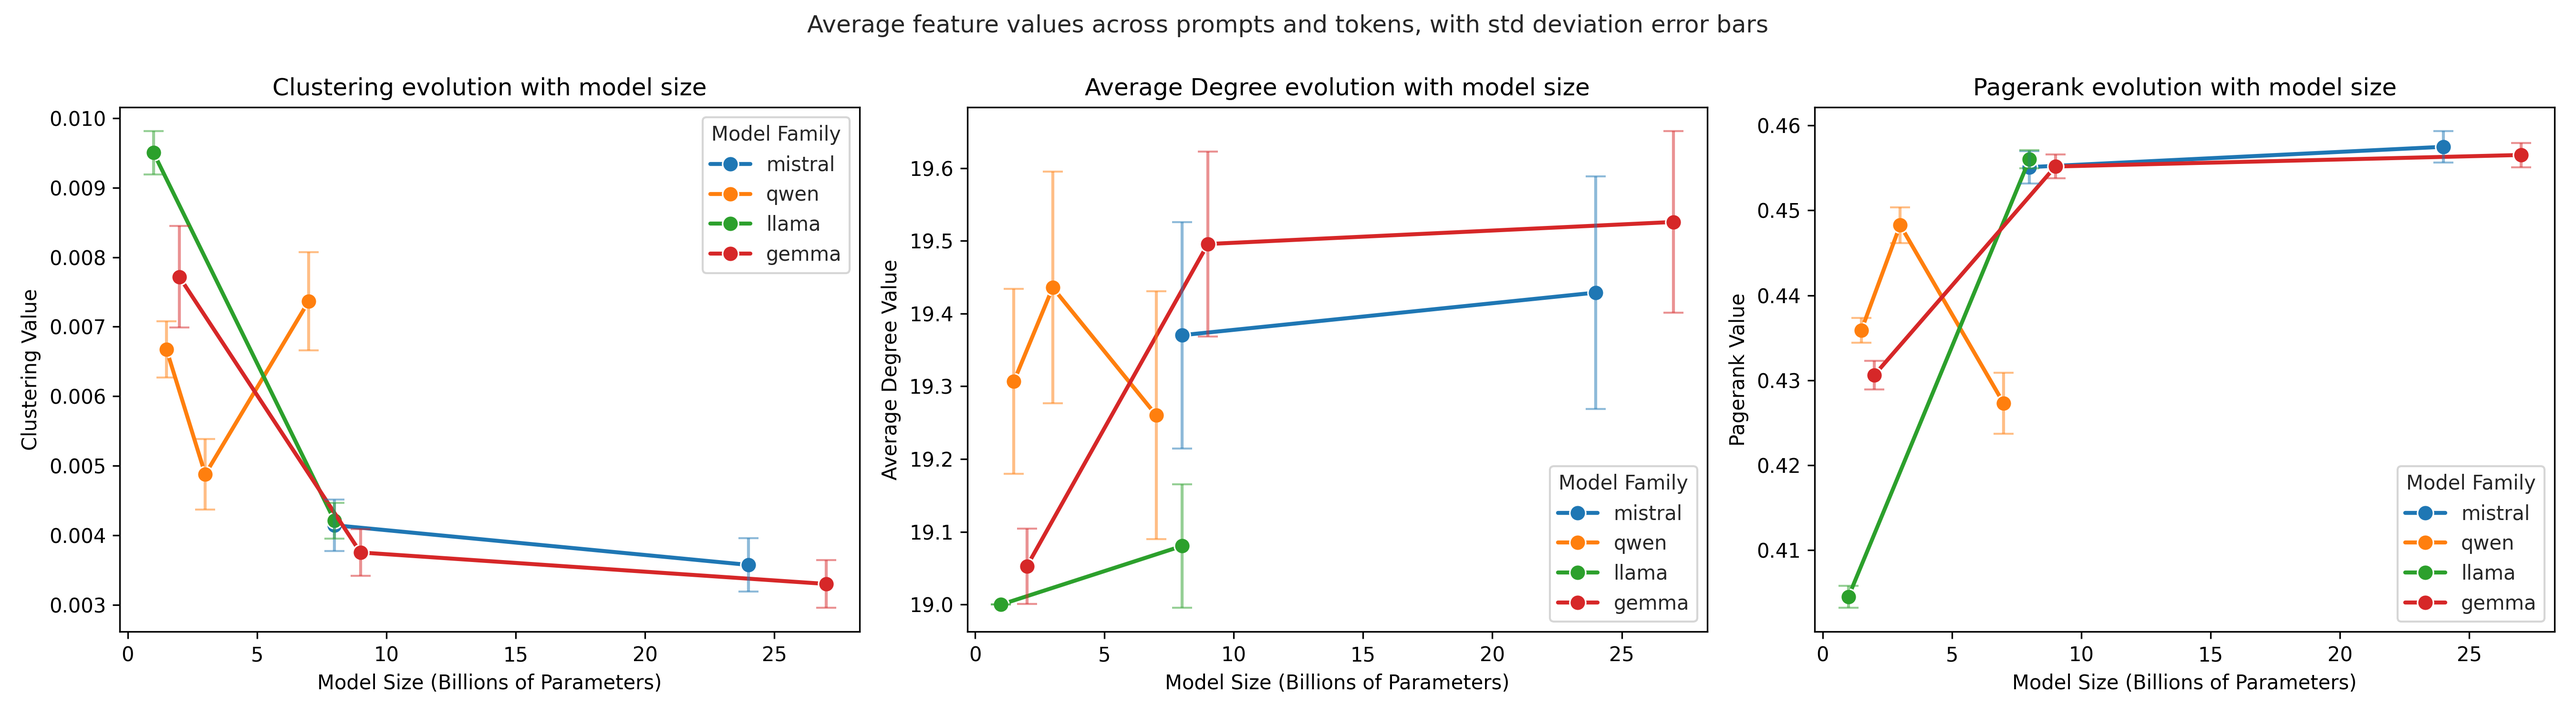
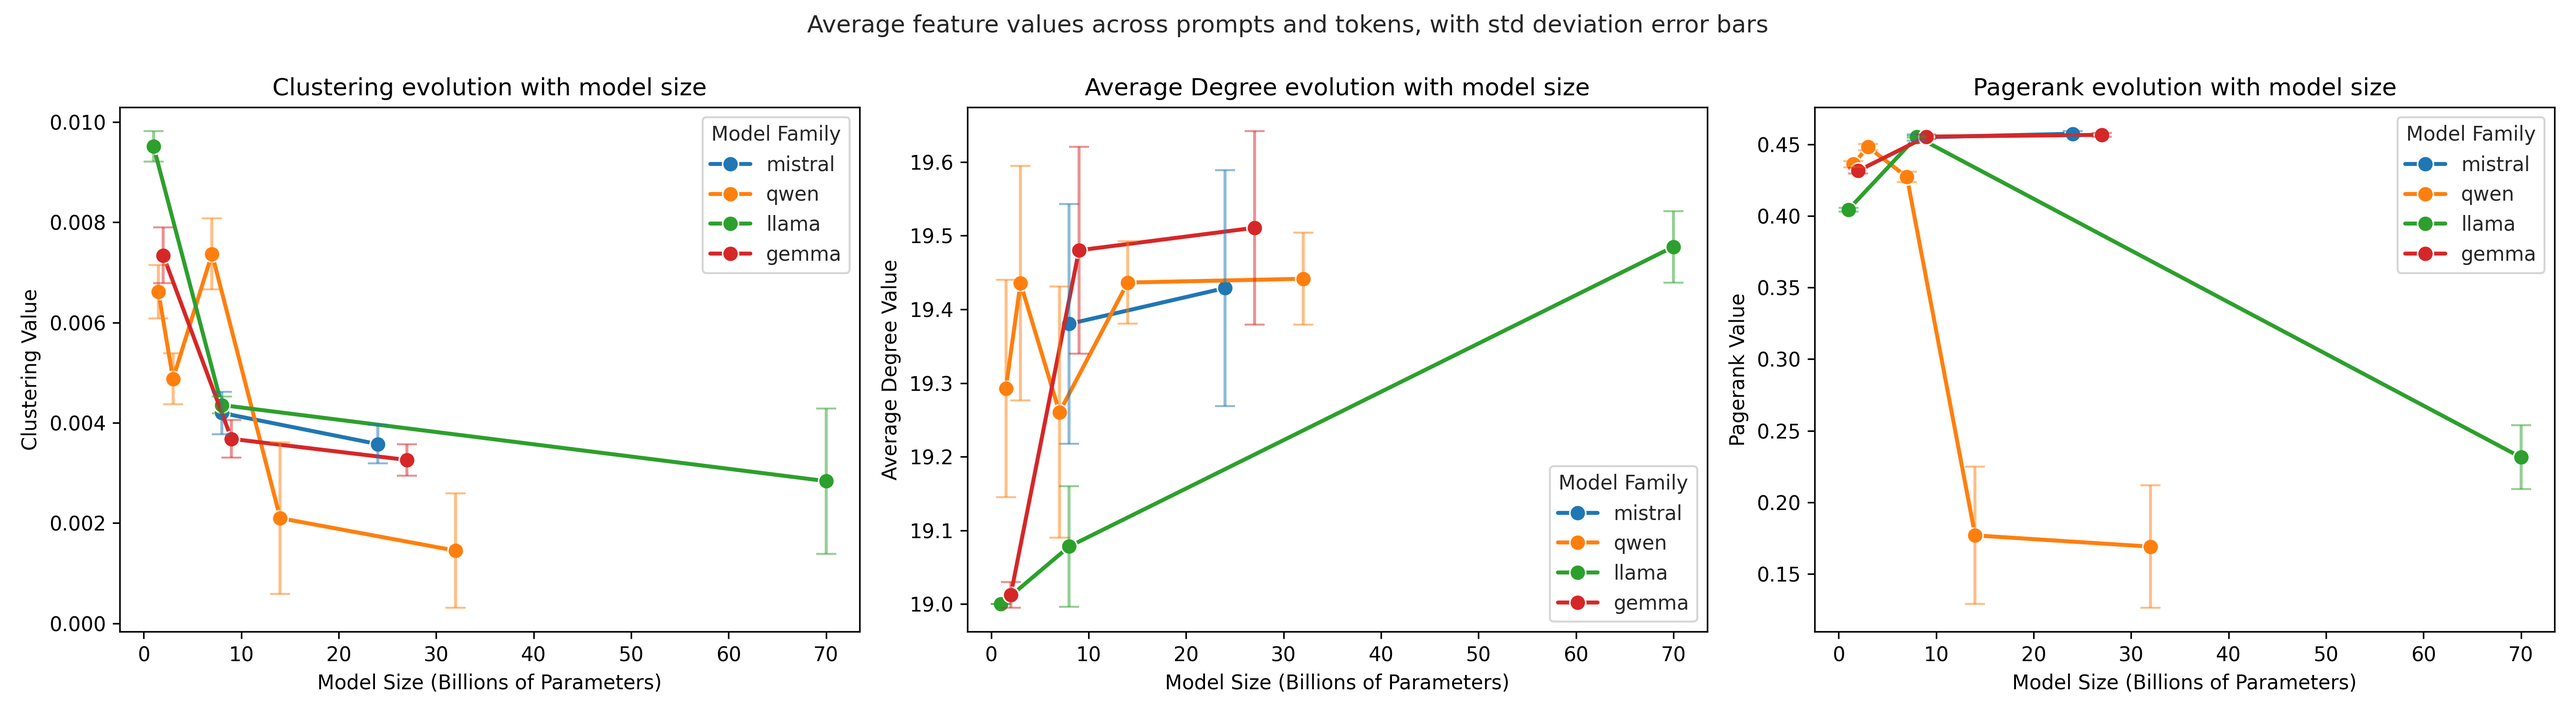
new lineplots with more models

diff --git a/src/feature_distribution_lineplot.py b/src/feature_distribution_lineplot.py
@@ -36,41 +36,71 @@ os.makedirs(out_dir, exist_ok=True)
 
 
 data_dir = os.path.join(get_git_root(), "results/entropy_compare_all_models/")
+additional_dir = os.path.join(get_git_root(), "pavle_asked/all_models/")
 prompt_ids = ["prompt_1", "prompt_2", "prompt_4"]
+
+# Updated model list including additional models
+models_by_families = {
+    'mistral': ['mistral_8b_instruct', 'mistral_24b_instruct'], 
+    'qwen': ['qwen_1.5b_instruct', 'qwen_3b_instruct', 'qwen_7b_instruct', 'qwen_14b_instruct', 'qwen_32b_instruct'], 
+    'llama': ['llama_1b_instruct', 'llama_8b_instruct', 'llama_70b_instruct'], 
+    'gemma': ['gemma_2b_instruct', 'gemma_9b_instruct', 'gemma_27b_instruct']
+}
 
 # Dictionary to store feature values across all prompts
 # Structure: {feature_name: {family: {model: [values_from_different_prompts]}}}
 all_prompts_data = {feature_name: {family: {model: [] for model in models} 
-                    for family, models in {'mistral': ['mistral_8b_instruct', 'mistral_24b_instruct'], 
-                                          'qwen': ['qwen_1.5b_instruct', 'qwen_3b_instruct', 'qwen_7b_instruct'], 
-                                          'llama': ['llama_1b_instruct', 'llama_8b_instruct'], 
-                                          'gemma': ['gemma_2b_instruct', 'gemma_9b_instruct', 'gemma_27b_instruct']}.items()} 
+                    for family, models in models_by_families.items()} 
                    for feature_name in feature_names}
 
-# Load data from all prompts
+# Load data from the main directory
 for prompt_id in prompt_ids:
     try:
-        with open(os.path.join(data_dir, f"{prompt_id}/features/features_top_k_20.json"), "r") as f:
-            results = json.load(f)
-            
-            # Extract feature values for each model and store them
-            for feature_name in feature_names:
-                for family, models in {'mistral': ['mistral_8b_instruct', 'mistral_24b_instruct'], 
-                                      'qwen': ['qwen_1.5b_instruct', 'qwen_3b_instruct', 'qwen_7b_instruct'], 
-                                      'llama': ['llama_1b_instruct', 'llama_8b_instruct'], 
-                                      'gemma': ['gemma_2b_instruct', 'gemma_9b_instruct', 'gemma_27b_instruct']}.items():
-                    for model in models:
-                        if model in results and feature_name in results[model]:
-                            feature_value = results[model][feature_name]
-                            # Handle if feature_value is a list by taking the median
-                            if isinstance(feature_value, list) and feature_value:
-                                feature_value = np.median(feature_value)
-                            
-                            # Only add if it's a valid numeric value
-                            if isinstance(feature_value, (int, float)) and not np.isnan(feature_value):
-                                all_prompts_data[feature_name][family][model].append(feature_value)
+        file_path = os.path.join(data_dir, f"{prompt_id}/features/features_top_k_20.json")
+        if os.path.exists(file_path):
+            with open(file_path, "r") as f:
+                results = json.load(f)
+                
+                # Extract feature values for each model and store them
+                for feature_name in feature_names:
+                    for family, models in models_by_families.items():
+                        for model in models:
+                            if model in results and feature_name in results[model]:
+                                feature_value = results[model][feature_name]
+                                # Handle if feature_value is a list by taking the median
+                                if isinstance(feature_value, list) and feature_value:
+                                    feature_value = np.median(feature_value)
+                                
+                                # Only add if it's a valid numeric value
+                                if isinstance(feature_value, (int, float)) and not np.isnan(feature_value):
+                                    all_prompts_data[feature_name][family][model].append(feature_value)
     except FileNotFoundError:
-        print(f"Warning: Could not find file for {prompt_id}")
+        print(f"Warning: Could not find file for {prompt_id} in main directory")
+        continue
+
+# Load data from the additional directory
+for prompt_id in prompt_ids:
+    try:
+        file_path = os.path.join(additional_dir, f"{prompt_id}/features/features_top_k_20.json")
+        if os.path.exists(file_path):
+            with open(file_path, "r") as f:
+                results = json.load(f)
+                
+                # Extract feature values for each model and store them
+                for feature_name in feature_names:
+                    for family, models in models_by_families.items():
+                        for model in models:
+                            if model in results and feature_name in results[model]:
+                                feature_value = results[model][feature_name]
+                                # Handle if feature_value is a list by taking the median
+                                if isinstance(feature_value, list) and feature_value:
+                                    feature_value = np.median(feature_value)
+                                
+                                # Only add if it's a valid numeric value
+                                if isinstance(feature_value, (int, float)) and not np.isnan(feature_value):
+                                    all_prompts_data[feature_name][family][model].append(feature_value)
+    except FileNotFoundError:
+        print(f"Warning: Could not find file for {prompt_id} in additional directory")
         continue
 
 # Create the plots with error bars based on prompt variation
@@ -80,11 +110,6 @@ fig, axs = plt.subplots(1, 3, figsize=(18, 5))
 for i, feature_name in enumerate(feature_names):
     # Prepare data for plotting
     plot_data = []
-    
-    models_by_families = {'mistral': ['mistral_8b_instruct', 'mistral_24b_instruct'], 
-                         'qwen': ['qwen_1.5b_instruct', 'qwen_3b_instruct', 'qwen_7b_instruct'], 
-                         'llama': ['llama_1b_instruct', 'llama_8b_instruct'], 
-                         'gemma': ['gemma_2b_instruct', 'gemma_9b_instruct', 'gemma_27b_instruct']}
     
     for family in models_by_families:
         for model in models_by_families[family]:
